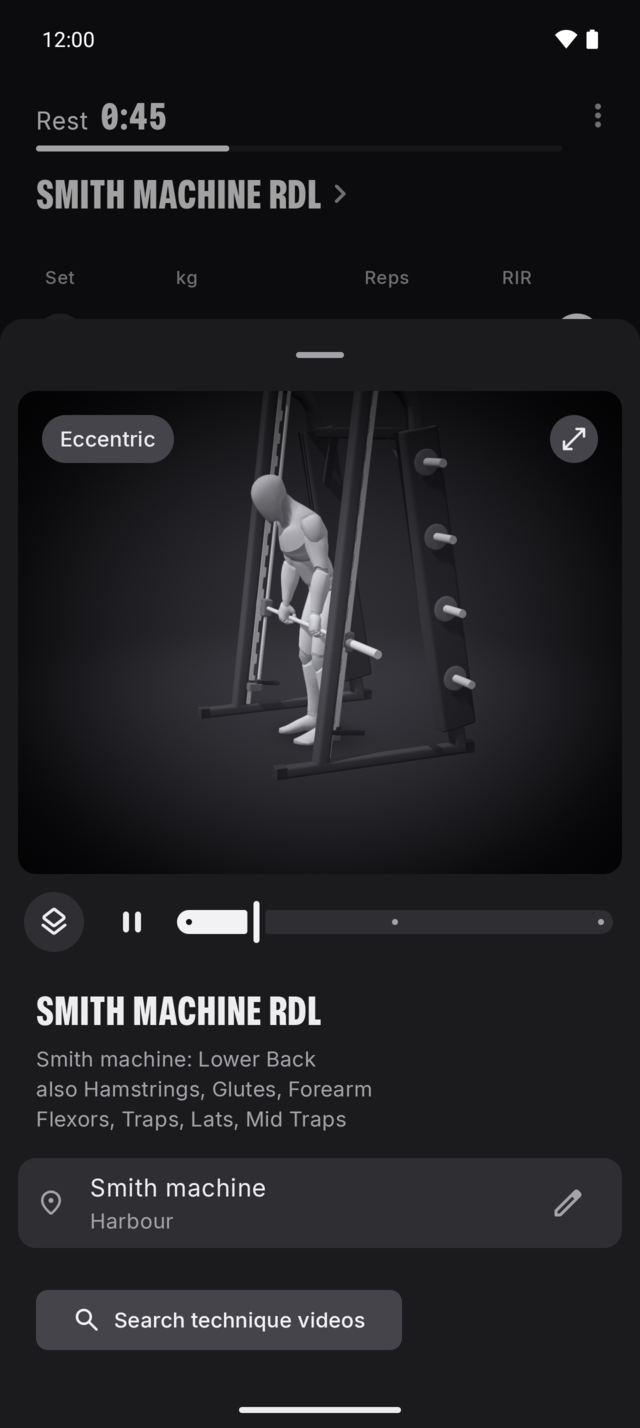
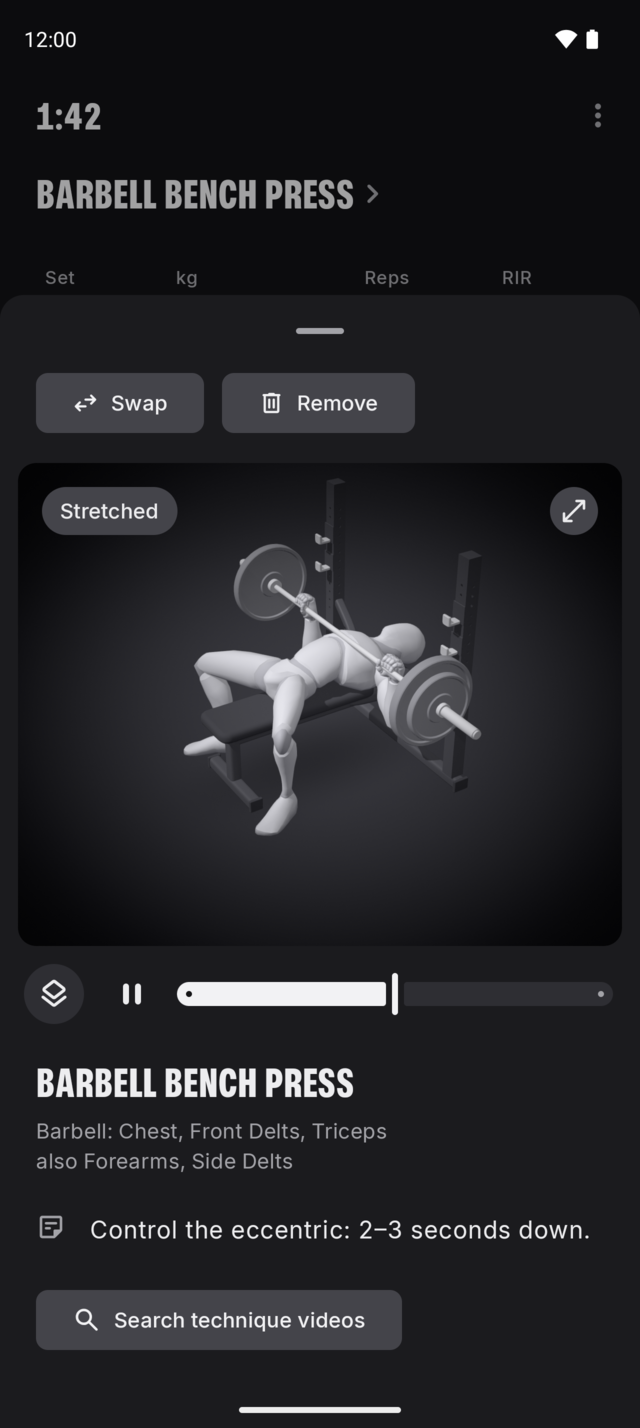
docs: show the barbell bench press in logging's exercise details (#588)

diff --git a/src/content/docs/docs/logging.md b/src/content/docs/docs/logging.md
@@ -76,8 +76,8 @@ session's exercises with a dot for each set.
 
 ![The exercise rail open at the right edge, with a dot for each set](../../../assets/shots/shot-exercises-light.png)
 ![The exercise rail open at the right edge, with a dot for each set](../../../assets/shots/shot-exercises-dark.png)
-![An exercise's details: the mannequin doing the movement, the exercise's muscles and its machine](../../../assets/shots/shot-exercise-light.png)
-![An exercise's details: the mannequin doing the movement, the exercise's muscles and its machine](../../../assets/shots/shot-exercise-dark.png)
+![An exercise's details: the mannequin doing a barbell bench press, the muscles it works and a note on technique](../../../assets/shots/shot-exercise-light.png)
+![An exercise's details: the mannequin doing a barbell bench press, the muscles it works and a note on technique](../../../assets/shots/shot-exercise-dark.png)
 
 </div>
 
